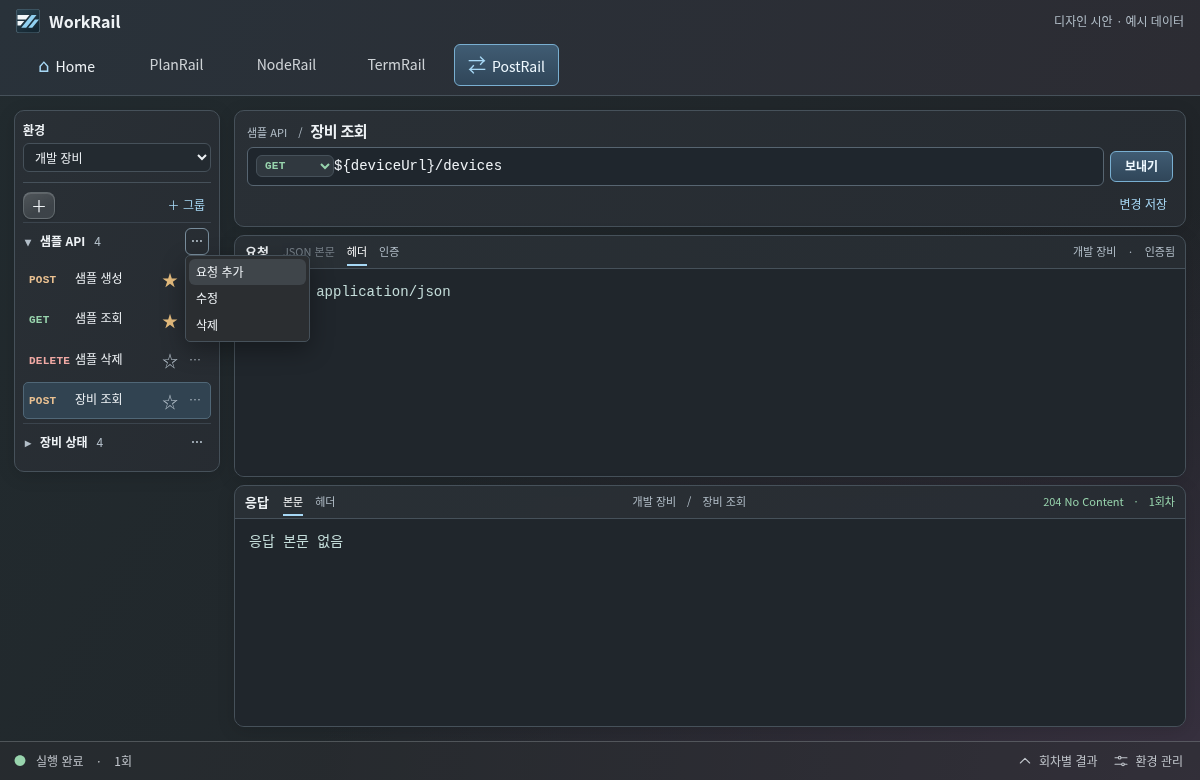
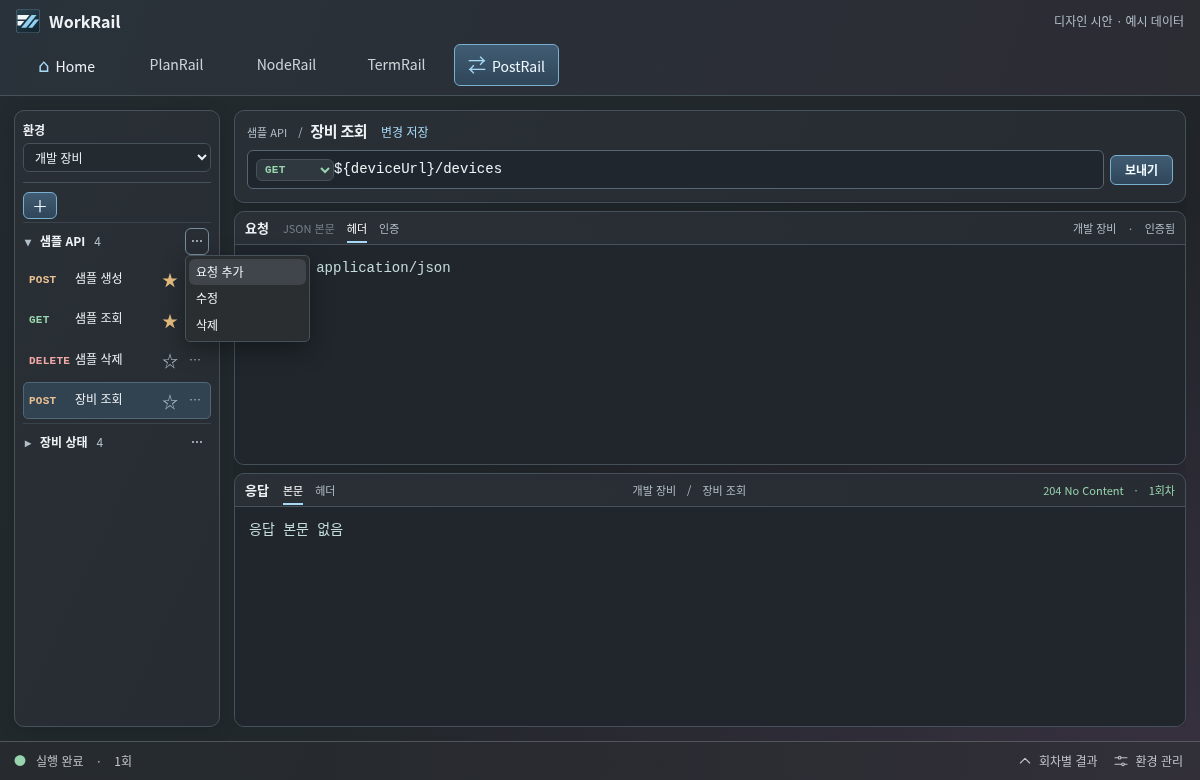
Align PostRail sidebar actions and popups with PlanRail reminders

diff --git a/docs/design/mockups/postrail-workspace.html b/docs/design/mockups/postrail-workspace.html
@@ -82,22 +82,31 @@ body:has(#post:not([hidden])){height:100dvh}
 .code-pane .json-input textarea{position:absolute;inset:0;width:100%;height:100%;min-height:0;overflow:auto;color:transparent;caret-color:#f1f2f3;background:transparent}
 .json-input textarea::selection{background:#6489af80}
 @media(forced-colors:active){.json-input pre{display:none}.code-pane .json-input textarea{color:CanvasText;caret-color:CanvasText}}
-/* The same glass, field dimensions and action spacing as the WorkRail standard dialog. */
-#dialog{width:min(460px,calc(100vw - 28px));max-height:calc(100dvh - 32px);overflow:auto;padding:20px 22px;border:1px solid #b4bfc449;border-radius:14px;background:rgba(43,46,49,.5);backdrop-filter:blur(28px);box-shadow:0 14px 42px #0007}
-#dialog::backdrop{background:#14191f66}
-#dialog .title{background:none;padding:0 0 10px;border-bottom:1px solid #b4bfc430}
-#dialog h2{font-size:19px}
-#dialog .dialogbody{max-height:none;padding:14px 0}
+/* PlanRail QuickReminder popup and dark forest-crystal theme. */
+#dialog{position:fixed;inset:auto;margin:0;width:min(340px,calc(100vw - 16px));max-height:calc(100dvh - 64px);overflow:auto;padding:16px;border:1px solid #b4bfc449;border-radius:14px;background:rgba(43,46,49,.5);backdrop-filter:blur(10px);box-shadow:0 12px 30px #0006,inset 0 1px 0 #ffffff20}
+#dialog::backdrop{background:transparent}
+#dialog .title{background:none;padding:0;border:0;justify-content:space-between;gap:12px}
+#dialog h2{font-size:16px}
+#dialog .dialogbody{max-height:none;padding:12px 0 0}
 #dialog .formrow{font-size:13px;font-weight:600;margin:0 0 14px}
 #dialog .formrow:last-child{margin-bottom:0}
 #dialog input,#dialog select{height:36px;padding:6px 10px;border-radius:8px;background:#6e73784d;border:1px solid #b4bfc449;color:inherit}
 #dialog option,#method option{background:#292f35;color:#eef2f5}
-#dialog button,#newRequest{min-height:32px;padding:5px 11px;font-size:13px;border-radius:8px;color:inherit;border:1px solid #b4bfc449;background:linear-gradient(155deg,#ffffff18,transparent 65%),#6e73784d;box-shadow:0 1px 2px #0003,inset 0 1px 0 #ffffff20}
-#dialog .dialogfoot{gap:8px;padding:12px 0 0;border-top:1px solid #b4bfc430}
+#dialog button{min-height:32px;padding:5px 11px;font-size:13px;border-radius:8px;color:inherit;border:1px solid #b4bfc449;background:linear-gradient(155deg,#ffffff18,transparent 65%),#6e73784d;box-shadow:0 1px 2px #0003,inset 0 1px 0 #ffffff20}
+#dialog .dialogfoot{gap:10px;padding:0;border:0;margin-top:16px;flex-wrap:wrap}
+#dialog .dialogfoot button{min-width:76px;border-radius:10px}
+#dialog #closeDialog{background:none;border:0;box-shadow:none;padding:0;width:28px;min-height:28px;font-size:18px}
+#dialog #closeDialog:hover{background:#b4c8dc26}
+@media(forced-colors:active){#dialog{background:Canvas;color:CanvasText;border-color:CanvasText}}
 #dialog .primary{background:linear-gradient(155deg,#5796cd55,#24507840 65%),#477fae4d;border-color:#8bc1eb}
 #dialog .danger{color:#ffc1ba}
 #dialog .leading{margin-right:auto}
-#newRequest{min-height:24px;padding:0 7px;font-size:16px}
+#newRequest{min-height:26px;padding:0 8px;font-size:16px}
+#post aside{display:flex;flex-direction:column;align-self:stretch;min-height:0;overflow:hidden}
+#post aside > :not(#tree){flex:none}
+#tree{flex:1 1 auto;min-height:0;overflow-y:auto}
+@media(min-width:621px){#post{grid-template-rows:minmax(0,1fr)}#post .workspace{min-height:0;overflow:auto}}
+
 #method{flex:none;width:78px;padding:3px 4px;background:#30383f;border-color:var(--line)}
 #contextMenu{position:fixed;z-index:20;min-width:125px;padding:3px;max-height:50vh;overflow:auto;border:1px solid var(--line);border-radius:5px;background:#2b2e31;box-shadow:0 8px 24px #0005}
 #contextMenu button{display:block;width:100%;padding:4px 7px;font-size:12px;text-align:left;background:none;border:0}
@@ -106,10 +115,10 @@ body:has(#post:not([hidden])){height:100dvh}
[1 lines of base64/hex data omitted]
 <main id="post">
 <aside><label for="env"><strong>환경</strong></label><select class="env" id="env"><option>개발 장비</option><option>QA 장비</option></select>
-<div class="row apart asidehead"><button id="newRequest" aria-label="요청 추가" title="요청 추가">＋</button><button id="newGroup" class="ghost">＋ 그룹</button></div><div id="tree"></div></aside>
+<div class="row apart asidehead"><span id="addSlot"></span></div><div id="tree"></div></aside>
 <section class="workspace">
-<div class="panel compose"><div class="request-heading"><span class="pathline" id="crumb"></span><h1 id="reqName"></h1></div><div class="endpoint"><div class="url"><select id="method" class="verb" aria-label="HTTP 메서드"><option>GET</option><option>POST</option><option>DELETE</option></select><input id="url" aria-label="요청 URL"></div><button class="primary send" id="send">보내기</button></div>
-<div class="tools"><label id="repeatControl"><input type="checkbox" id="repeat">반복 보내기</label><label id="countControl" hidden>횟수 <input type="text" inputmode="numeric" id="count" value="10"></label><span id="range"></span><button id="saveEdits" class="ghost auto" hidden>변경 저장</button></div></div>
+<div class="panel compose"><div class="request-heading"><span class="pathline" id="crumb"></span><h1 id="reqName"></h1><button id="saveEdits" class="ghost" hidden>변경 저장</button></div><div class="endpoint"><div class="url"><select id="method" class="verb" aria-label="HTTP 메서드"><option>GET</option><option>POST</option><option>DELETE</option></select><input id="url" aria-label="요청 URL"></div><button class="primary send" id="send">보내기</button></div>
+<div class="tools"><label id="repeatControl"><input type="checkbox" id="repeat">반복 보내기</label><label id="countControl" hidden>횟수 <input type="text" inputmode="numeric" id="count" value="10"></label><span id="range"></span></div></div>
 <div class="panel code-pane"><div class="pane-bar"><h2>요청</h2><div id="reqTabs" class="tabs"><button data-tab="0" class="active">JSON 본문</button><button data-tab="1">헤더</button><button data-tab="2">인증</button></div><small id="auth" class="auto"></small></div><div class="editor" id="reqContent"></div></div>
 <div class="panel code-pane"><div class="pane-bar"><h2>응답</h2><div class="tabs"><button id="bodyTab" class="active">본문</button><button id="hdrTab">헤더</button></div><small class="auto" id="responseOwner"></small><span id="status" class="good"></span></div><div class="editor"><pre id="response"></pre></div></div>
 </section></main>
@@ -173,12 +182,27 @@ function button(label,action,cls) {
   const b=node('button',label,cls);
   b.onclick=action; return b;
 }
+const popup=$('dialog');
+let popupCaller;
+function placePopup(){
+  if(!popup.open||!popupCaller)return;
+  const box=popupCaller.getBoundingClientRect();
+  popup.style.left=Math.max(8,Math.min(box.left,innerWidth-popup.offsetWidth-8))+'px';
+  popup.style.top=Math.max(56,Math.min(box.bottom+8,innerHeight-popup.offsetHeight-8))+'px';
+}
+new ResizeObserver(placePopup).observe(popup);
+window.addEventListener('resize',placePopup);
+popup.addEventListener('pointerdown',e=>{
+  const rect=popup.getBoundingClientRect();
+  if(e.target===popup&&(e.clientX<rect.left||e.clientX>rect.right||e.clientY<rect.top||e.clientY>rect.bottom))popup.close();
+});
 function modal(title,save,actionLabel='저장') {
+  if(!popup.open)popupCaller=document.activeElement;
   $('dialogTitle').textContent=title;
   $('dialogBody').replaceChildren();$('actions').replaceChildren();
   $('actions').append(button('닫기',()=>$('dialog').close()));
   if(save)$('actions').append(button(actionLabel,save,'primary'));
-  if(!$('dialog').open)$('dialog').showModal();
+  if(!popup.open)popup.showModal();placePopup();
 }
 function field(label,value) {
   const l=node('label',label,'formrow'),input=node('input');
@@ -242,8 +266,8 @@ function dismissMenu(restore=false){
   menu.hidden=true;menuAnchor.setAttribute('aria-expanded','false');
   if(restore)menuAnchor.focus();
 }
-function menuButton(label,entries,classes='more'){
-  const trigger=button('…',event=>{
+function menuButton(label,entries,classes='more',symbol='…'){
+  const trigger=button(symbol,event=>{
     event.preventDefault();
     if(!menu.hidden&&menuAnchor===trigger){dismissMenu(true);return}
     dismissMenu();menuAnchor=trigger;
@@ -453,12 +477,16 @@ function drawer(show){$('drawer').hidden=!show;$('toggleLog').setAttribute('aria
 function showHome(home){
   $('home').hidden=!home;$('post').hidden=home;$('footer').hidden=home;$('postTab').classList.toggle('active',!home);$('homeTab').classList.toggle('active',home);window.scrollTo(0,0);
 }
-$('newRequest').onclick=()=>requestEditor(null,current?.folder??loose);
+const add=menuButton('요청 또는 그룹 추가',[
+  ['요청 추가',()=>requestEditor(null,current?.folder??loose)],
+  ['그룹 추가',()=>groupEditor()]
+],'primary','＋');
+add.id='newRequest';add.title='요청 또는 그룹 추가';$('addSlot').replaceWith(add);
 $('method').onchange=e=>{
   edit('method',e.target.value);$('repeat').checked=false;
   requestTab=e.target.value==='GET'?1:0;draw();
 };
-$('env').onchange=draw;$('newGroup').onclick=()=>groupEditor();$('manage').onclick=manage;$('closeDialog').onclick=()=>$('dialog').close();
+$('env').onchange=draw;$('manage').onclick=manage;$('closeDialog').onclick=()=>$('dialog').close();
 $('saveEdits').onclick=()=>{Object.assign(current,drafts.get(current));drafts.delete(current);draw()};
 $('url').oninput=e=>{if(current)edit('url',e.target.value)};$('repeat').onchange=range;$('count').oninput=range;$('send').onclick=()=>sendRequest(current,count(),values(current));
 $('reqTabs').onclick=e=>{if(e.target.dataset.tab!==undefined){requestTab=Number(e.target.dataset.tab);requestPane()}};

diff --git a/docs/design/postrail-workspace.md b/docs/design/postrail-workspace.md
@@ -4,8 +4,8 @@
 
 ## PostRail에서 요청을 보내는 흐름
 
-1. 왼쪽 요청 목록 상단의 **＋**로 요청을 만든다. 이름·URL·그룹을 입력해 저장하면 오른쪽 편집기에 새 요청이 열린다. 선택 중인 요청이 있으면 같은 그룹, 선택이 없으면 미분류가 기본이다. 그룹의 **… → 요청 추가**를 이용하면 해당 그룹이 미리 선택된다. **＋ 그룹**은 별도로 제공한다.
-2. URL 왼쪽의 **HTTP 메서드 드롭다운**에서 GET·POST·DELETE를 선택한다. GET은 본문 탭을 끄고, DELETE는 본문을 선택적으로 사용할 수 있다. 작성 중인 본문은 메서드를 전환해도 보관한다. 새 요청의 기본값은 GET이다. 편집기에서는 선택한 메서드로 보내며, ‘변경 저장’을 누르면 저장 요청과 Home 즐겨찾기에도 반영된다. POST도 기본 버튼은 **보내기**다. 한 번 보내려면 횟수를 입력할 필요가 없다. POST에서 **반복 보내기**를 켰을 때만 양의 정수를 입력하고 ‘N회 보내기’를 사용한다. 반복을 끄면 한 건만 발송한다. 인덱스 있는 단건도 번호를 사용한다. GET과 DELETE에는 반복 옵션이 없다.
+1. 왼쪽 패널 상단에서 **＋ → 요청 추가**로 요청을 만들거나 **＋ → 그룹 추가**로 그룹을 만든다. 통합 ＋ 버튼은 보내기 버튼과 같은 파란색을 사용한다. 이름·URL·그룹을 입력해 저장하면 오른쪽 편집기에 새 요청이 열린다. 선택 중인 요청이 있으면 같은 그룹, 선택이 없으면 미분류가 기본이다. 그룹의 **… → 요청 추가**를 이용하면 해당 그룹이 미리 선택된다.
+2. URL 왼쪽의 **HTTP 메서드 드롭다운**에서 GET·POST·DELETE를 선택한다. GET은 본문 탭을 끄고, DELETE는 본문을 선택적으로 사용할 수 있다. 작성 중인 본문은 메서드를 전환해도 보관한다. 새 요청의 기본값은 GET이다. 편집기에서는 선택한 메서드로 보낸다. 편집 내용이 달라지면 요청 이름 바로 오른쪽에 **변경 저장**이 나타나며, 누르면 저장 요청과 Home 즐겨찾기에도 반영된다. POST도 기본 버튼은 **보내기**다. 한 번 보내려면 횟수를 입력할 필요가 없다. POST에서 **반복 보내기**를 켰을 때만 양의 정수를 입력하고 ‘N회 보내기’를 사용한다. 반복을 끄면 한 건만 발송한다. 인덱스 있는 단건도 번호를 사용한다. GET과 DELETE에는 반복 옵션이 없다.
 3. URL 아래의 전체 가로 공간에서 요청 헤더·본문·인증을 편집한다. 응답은 바로 아래에서 본문·헤더를 전환한다. 응답 상단에는 실제 실행한 요청명·환경·선택된 회차를 표시해 편집기의 현재 환경과 구별한다.
 4. PlanRail처럼 페이지 하단에 상태 바를 둔다. 왼쪽에는 실행 상태와 건수, 오른쪽 끝에는 **환경 관리**, 그 왼쪽에는 **회차별 결과**가 있다. 접힌 상태에서 ‘회차별 결과’를 누르면 하단 상태 줄은 제자리에 있고, 그 바로 위로 footer 전체 너비의 로그가 펼쳐진다. 로그는 복사할 수 있는 읽기 전용 일반 텍스트다. 회차당 한 줄에 번호·상태·사용한 인덱스를 표시한다. 특정 응답은 로그 도구 줄에 회차 번호를 입력하고 ‘응답 보기’를 눌러 확인한다. 같은 버튼이나 Escape로 접어도 실행과 선택 응답을 유지한다. 실패나 서버 반영 여부가 불명확한 회차 수는 닫힌 상태에서도 알 수 있게 한다.
 
@@ -17,11 +17,13 @@
 | 그룹 옆 … | ‘요청 추가’, ‘수정’, ‘삭제’를 제공한다. 그룹만 삭제하면 소속 요청은 별표와 다음 인덱스를 유지한 채 미분류로 이동한다. 미분류에는 ‘요청 추가’만 제공한다. |
 | 수정 팝업 하단 | 그룹은 **그룹 삭제**, 요청은 **요청 삭제**를 가장 왼쪽에 둔다. **닫기**와 **저장**은 오른쪽에 둔다. 어느 경로에서든 삭제 확인을 닫으면 자료를 유지한다. |
 
-요청·그룹 추가/수정, 삭제 확인, 환경 관리, 반복 보내기와 안내 팝업은 WorkRail 표준 대화상자의 제목·본문·하단 동작 영역을 공유한다. 서버 수정과 같은 너비(최대 460px), 14px 모서리, 유리 배경과 36px 입력 높이를 사용한다. 목록 메뉴는 버튼 바로 옆에 열리며 방향키로 이동하고 Escape 또는 바깥 클릭으로 닫는다. [공통 팝업의 기준](../../src/renderer/termrail/workspace-dialog.css) · [메뉴의 기준](../../src/renderer/termrail/WorkspaceControls.tsx)
+요청·그룹 추가/수정, 삭제 확인, 환경 관리, 반복 보내기와 안내 팝업은 PlanRail **알림 설정**을 따른다. 호출한 버튼 아래 8px에 열고 화면 경계에 맞춰 보정한다. 최대 폭 340px, 안쪽 여백 16px, 모서리 14px, 제목 16px, 10px 유리 흐림과 투명한 배경막을 사용한다. 우상단 ×, Escape 또는 바깥 클릭으로 닫는다. 수정 창에서는 삭제 버튼만 왼쪽에 두고 닫기와 저장은 오른쪽으로 모은다. [알림 설정 컴포넌트](../../src/renderer/components/QuickReminder.tsx) · [팝업 스타일](../../src/renderer/forest-crystal.css) · [컨텍스트 메뉴](../../src/renderer/termrail/WorkspaceControls.tsx)
 
-[그룹 메뉴 시안](mockups/postrail-group-menu.png) · [요청 수정 팝업 시안](mockups/postrail-request-edit.png)
+[통합 추가 메뉴와 변경 저장 위치](mockups/postrail-add-menu.png) · [그룹 메뉴 시안](mockups/postrail-group-menu.png) · [요청 수정 팝업 시안](mockups/postrail-request-edit.png)
 
 ### 편집 공간과 하단 상태 바
+
+좌우 배치에서는 왼쪽 패널이 footer 위의 작업 공간 전체 높이를 채운다. 긴 목록은 패널 안에서 스크롤하며 환경 선택과 추가 버튼을 계속 사용할 수 있다. footer 로그를 열면 줄어든 작업 높이에 맞춘다.
 
 URL, 요청 본문과 응답 본문은 14px 고정폭을 사용한다. PostRail 페이지 안에서만 탐색·옵션 문자를 11~13px로 줄이고 각 영역의 제목과 탭을 한 줄에 둔다. 요청과 응답 코드 영역이 남은 세로 공간을 나눠 사용한다. 1200×780 시안에서 URL 입력 너비는 724px에서 793px, 요청·응답 코드 영역 높이는 각각 110px·123px에서 약 211px로 늘어났다. 좁은 창에서는 제목 줄이 줄바꿈되고 코드 영역은 스크롤할 수 있다.
 

diff --git a/docs/wayfinder/STATUS.md b/docs/wayfinder/STATUS.md
@@ -1,5 +1,7 @@
 # 진행 상태
 
+2026-11-20 PostRail 시안의 요청 이름 옆 변경 저장, 통합 추가 메뉴, 전체 높이의 왼쪽 패널과 PlanRail 알림 설정형 팝업을 [작업 화면 설계](../design/postrail-workspace.md)에 반영했다. 제품 구현 전이다.
+
 2026-11-20 PostRail 시안에 요청 생성·수정, 그룹·요청 컨텍스트 메뉴, 메서드 선택과 표준 팝업의 하단 삭제 버튼을 반영했다. [설계와 시안](../design/postrail-workspace.md) · 제품 구현 전.
 
 2026-11-20 PostRail 요청·응답 JSON 본문의 타입별 구문 강조와 요청 변수 표시를 [작업 화면 시안](../design/postrail-workspace.md)에 반영했다. 제품 구현 전이다.
